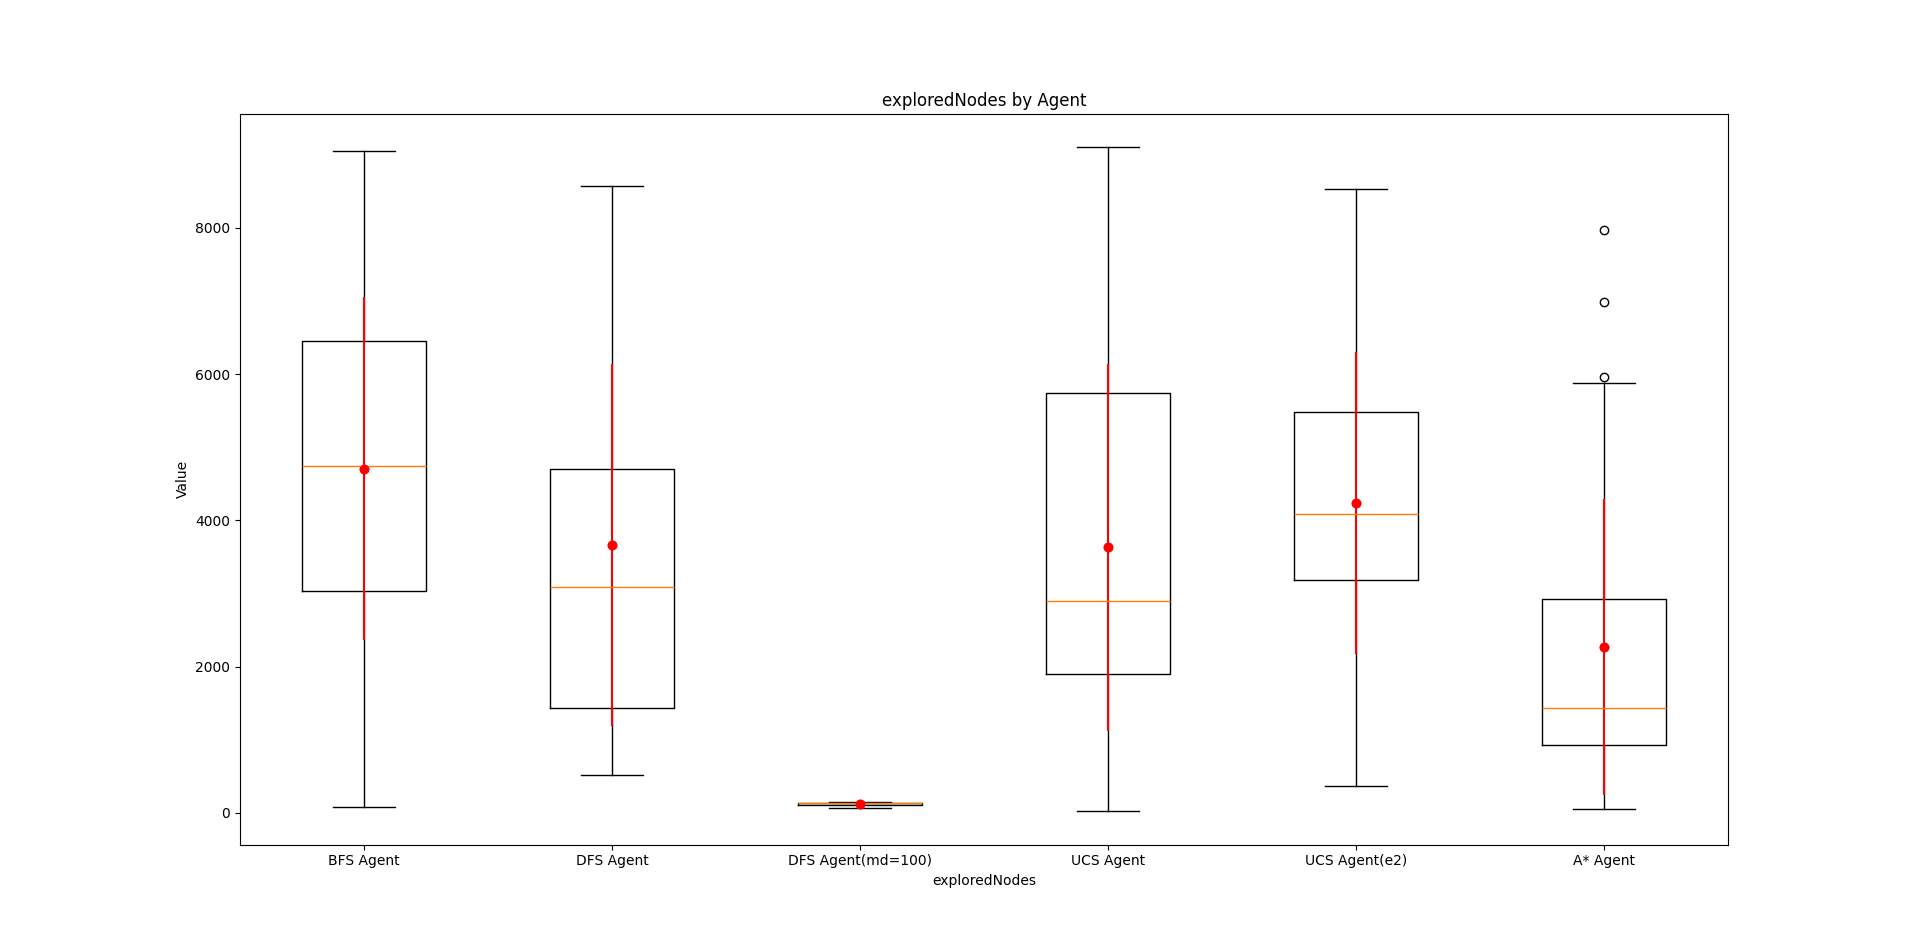
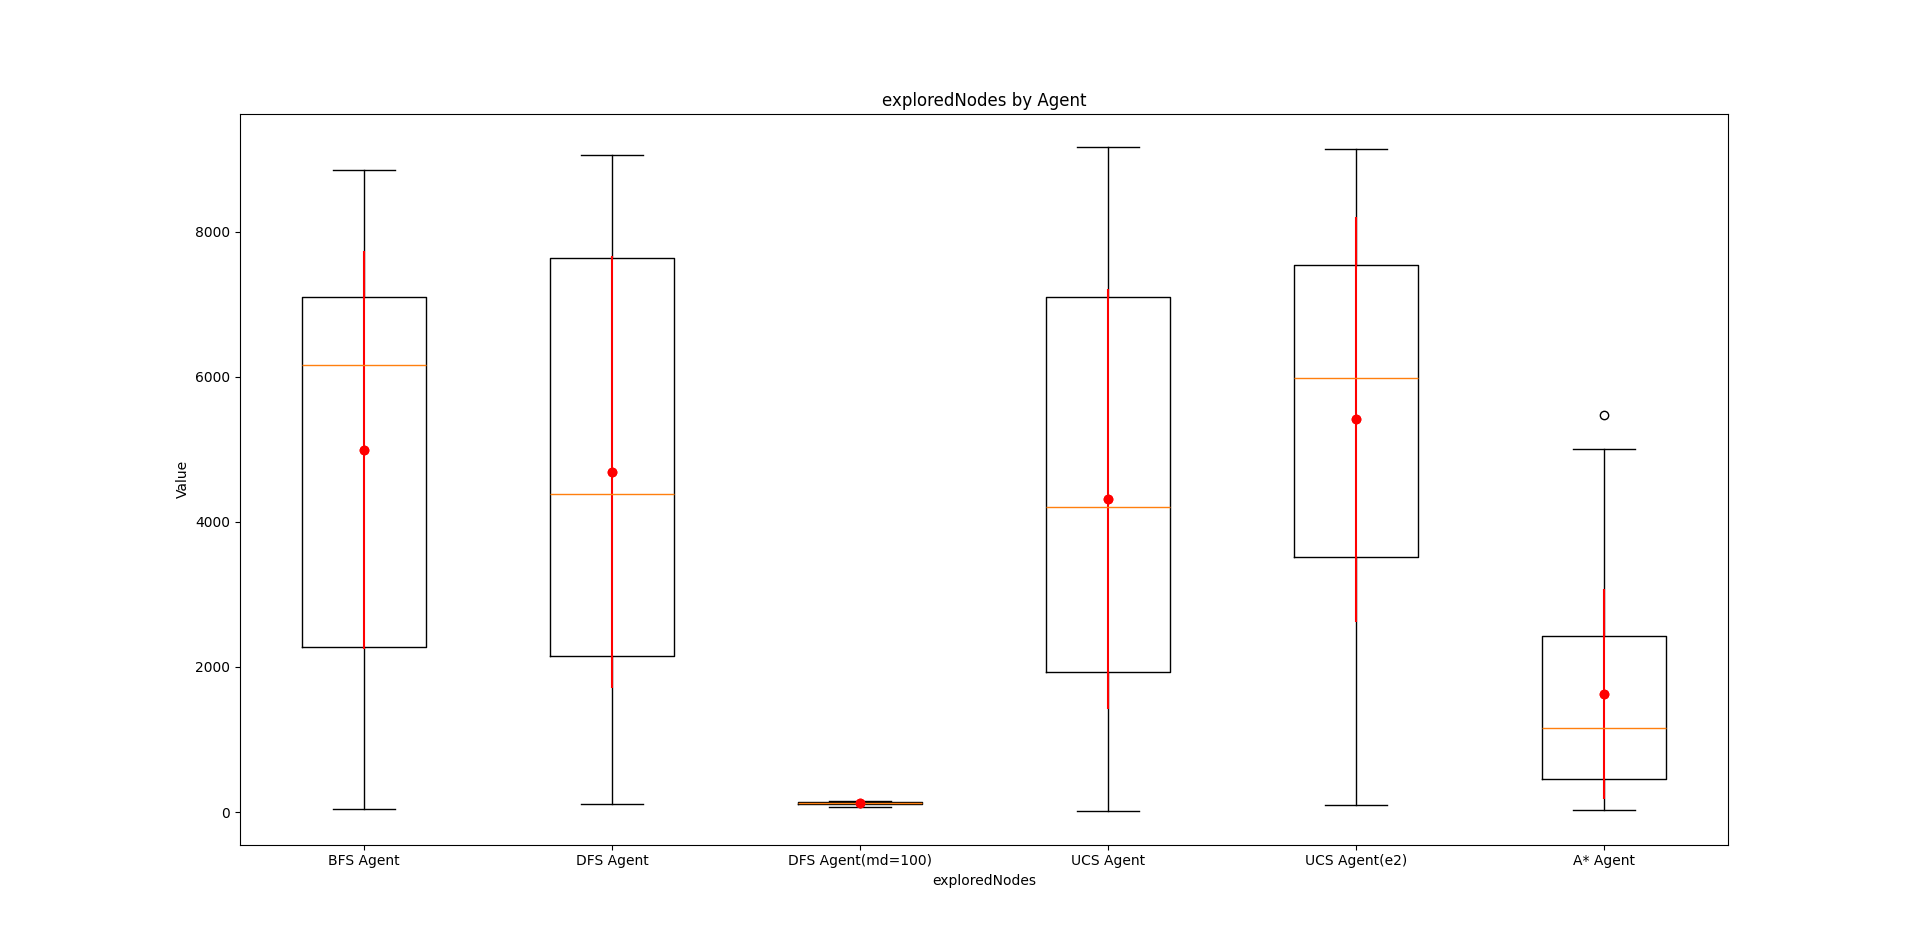
Add generateCSV func - dataCSV & imgs to match

diff --git a/tp3-busquedas-no-informadas/code/plot.py b/tp3-busquedas-no-informadas/code/plot.py
@@ -1,3 +1,4 @@
+import csv
 from map import Map
 from runAgent import runAgent
 from ucs import UcsAgent
@@ -11,15 +12,53 @@ import sys
 sys.path.append('./agents')
 
 
-def test():
-    map = Map(20, 0.75)
-    agent = AStarAgent()
-    runAgent(map, agent)
-
-
-def generateBoxPlot():
+def getGraphsAndTable():
     # Get Data
     dataObject: Dict[str, List[List[int]]] = getData()
+    generateCSV(dataObject)
+    generateBoxPlot(dataObject)
+
+
+def generateCSV(data):
+
+    # Nombres de los algoritmos
+    algorithms = ['BFS', 'DFS', 'DFS (limit 10)', 'UCS', 'UCS (cost)', 'A*']
+    csv_file = 'informada-results.csv'
+
+    # Abre el archivo CSV para escribir los datos
+    with open(csv_file, mode='w', newline='') as file:
+        writer = csv.writer(file)
+
+        # Escribe los encabezados del CSV
+        writer.writerow([
+            'algorithm_name', 'env_n', 'states_n',
+            'cost_e1', 'cost_e2', 'time', 'solution_found'
+        ])
+
+        # Recorre los datos de cada algoritmo
+        for idx, algorithm in enumerate(algorithms):
+            # Para cada entorno generado aleatoriamente (hay 30)
+            for env_n in range(30):
+                totalCost = data["totalCost"][idx][env_n]
+                exploredNodes = data["exploredNodes"][idx][env_n]
+                timeTaken = data["timeTaken"][idx][env_n]
+                solutionFound = data["solutionFound"][idx][env_n]
+
+                # Escribe la fila con los datos en el CSV
+                writer.writerow([
+                    algorithm,           # algorithm_name
+                    env_n + 1,           # env_n (1 a 30)
+                    exploredNodes,       # states_n
+                    # cost_e1 (coste total del escenario 1)
+                    totalCost,
+                    # cost_e2 (coste total del escenario 2)
+                    totalCost,
+                    timeTaken,           # time
+                    solutionFound        # solution_found
+                ])
+
+
+def generateBoxPlot(dataObject):
 
     # List of keys to iterate through
     keys = ["totalCost", "exploredNodes", "timeTaken"]
@@ -72,6 +111,8 @@ def getData() -> Dict[str, List[List[int]]]:
     totalCostArr: List[List[int]] = [[] for _ in range(len(agents))]
     exploredNodesArr: List[List[int]] = [[] for _ in range(len(agents))]
     timeTakenArr: List[List[int]] = [[] for _ in range(len(agents))]
+    solutionFoundArr: List[List[int]] = [[] for _ in range(len(agents))]
+    envSeedArr: List[List[int]] = [[] for _ in range(len(agents))]
 
     # 30 iterations per Agent in new random 100x100 Map
     for idx, agent in enumerate(agents):
@@ -79,16 +120,22 @@ def getData() -> Dict[str, List[List[int]]]:
             response = runAgent(map, agent)
 
             if response:
-                totalCost = response.get("totalCost", 0)
-                exploredNodes = response.get("exploredNodes", 0)
-                timeTaken = response.get("timeTaken", 0)
+                totalCost = response.get("totalCost")
+                exploredNodes = response.get("exploredNodes")
+                timeTaken = response.get("timeTaken")
+                solutionFound = response.get("solutionFound")
+                envSeed = response.get("envSeed")
                 totalCostArr[idx].append(totalCost)
                 exploredNodesArr[idx].append(exploredNodes)
                 timeTakenArr[idx].append(timeTaken)
+                solutionFoundArr[idx].append(solutionFound)
+                envSeedArr[idx].append(envSeed)
 
     # Return a dictionary with all the data
     return {
         "totalCost": totalCostArr,
         "exploredNodes": exploredNodesArr,
-        "timeTaken": timeTakenArr
+        "timeTaken": timeTakenArr,
+        "solutionFound": solutionFoundArr,
+        "envSeed": envSeedArr
     }

diff --git a/tp3-busquedas-no-informadas/code/map.py b/tp3-busquedas-no-informadas/code/map.py
@@ -9,7 +9,7 @@ class Map:
     def __init__(self, size: int, p: float, isSlippery: Optional[bool] = False, seed: Optional[int] = None, render=False) -> None:
         self.size = size
         self.p = p
-        self.seed = seed
+        self.np_random, self.seed = seeding.np_random(seed)
         self.startPos: Tuple[int, int]
         self.goalPos: Tuple[int, int]
         self.generateRandomPositions()
@@ -21,13 +21,13 @@ class Map:
                             is_slippery=isSlippery, render_mode=self.render)
 
     def generateRandomPositions(self) -> Tuple[Tuple[int, int], Tuple[int, int]]:
-        np_random, _ = seeding.np_random(self.seed)
-        startPos = (np_random.integers(0, self.size),
-                    np_random.integers(0, self.size))
+
+        startPos = (self.np_random.integers(0, self.size),
+                    self.np_random.integers(0, self.size))
         goalPos = startPos
         while goalPos == startPos:  # Ensures goalPos != startPos
-            goalPos = (np_random.integers(0, self.size),
-                       np_random.integers(0, self.size))
+            goalPos = (self.np_random.integers(0, self.size),
+                       self.np_random.integers(0, self.size))
         self.startPos, self.goalPos = startPos, goalPos
         return
 
@@ -35,11 +35,10 @@ class Map:
         board = []  # Initialize board
 
         # Set np_random with seed
-        np_random, _ = seeding.np_random(self.seed)
 
         # Creates Desc
         self.p = min(1, self.p)
-        board = np_random.choice(
+        board = self.np_random.choice(
             ["F", "H"], (self.size, self.size), p=[self.p, 1 - self.p])
 
         # Set random start pos & goal pos

diff --git a/tp3-busquedas-no-informadas/code/runAgent.py b/tp3-busquedas-no-informadas/code/runAgent.py
@@ -44,5 +44,6 @@ def runAgent(map: Map, agent: Agent):
 
     # Return the results
     response = {"totalCost": agent.calculateCost(),
-                "exploredNodes": len(agent.explored), "timeTaken": endTime}
+                "exploredNodes": len(agent.explored), "timeTaken": endTime,
+                "solutionFound": len(agent.actionsList) > 0, "envSeed": map.seed}
     return response

diff --git a/tp3-busquedas-no-informadas/code/main.py b/tp3-busquedas-no-informadas/code/main.py
@@ -1,6 +1,6 @@
-from plot import generateBoxPlot, test
+from plot import getGraphsAndTable
 
 # Generates Plots
 if __name__ == "__main__":
-    generateBoxPlot()
+    getGraphsAndTable()
     # test()
